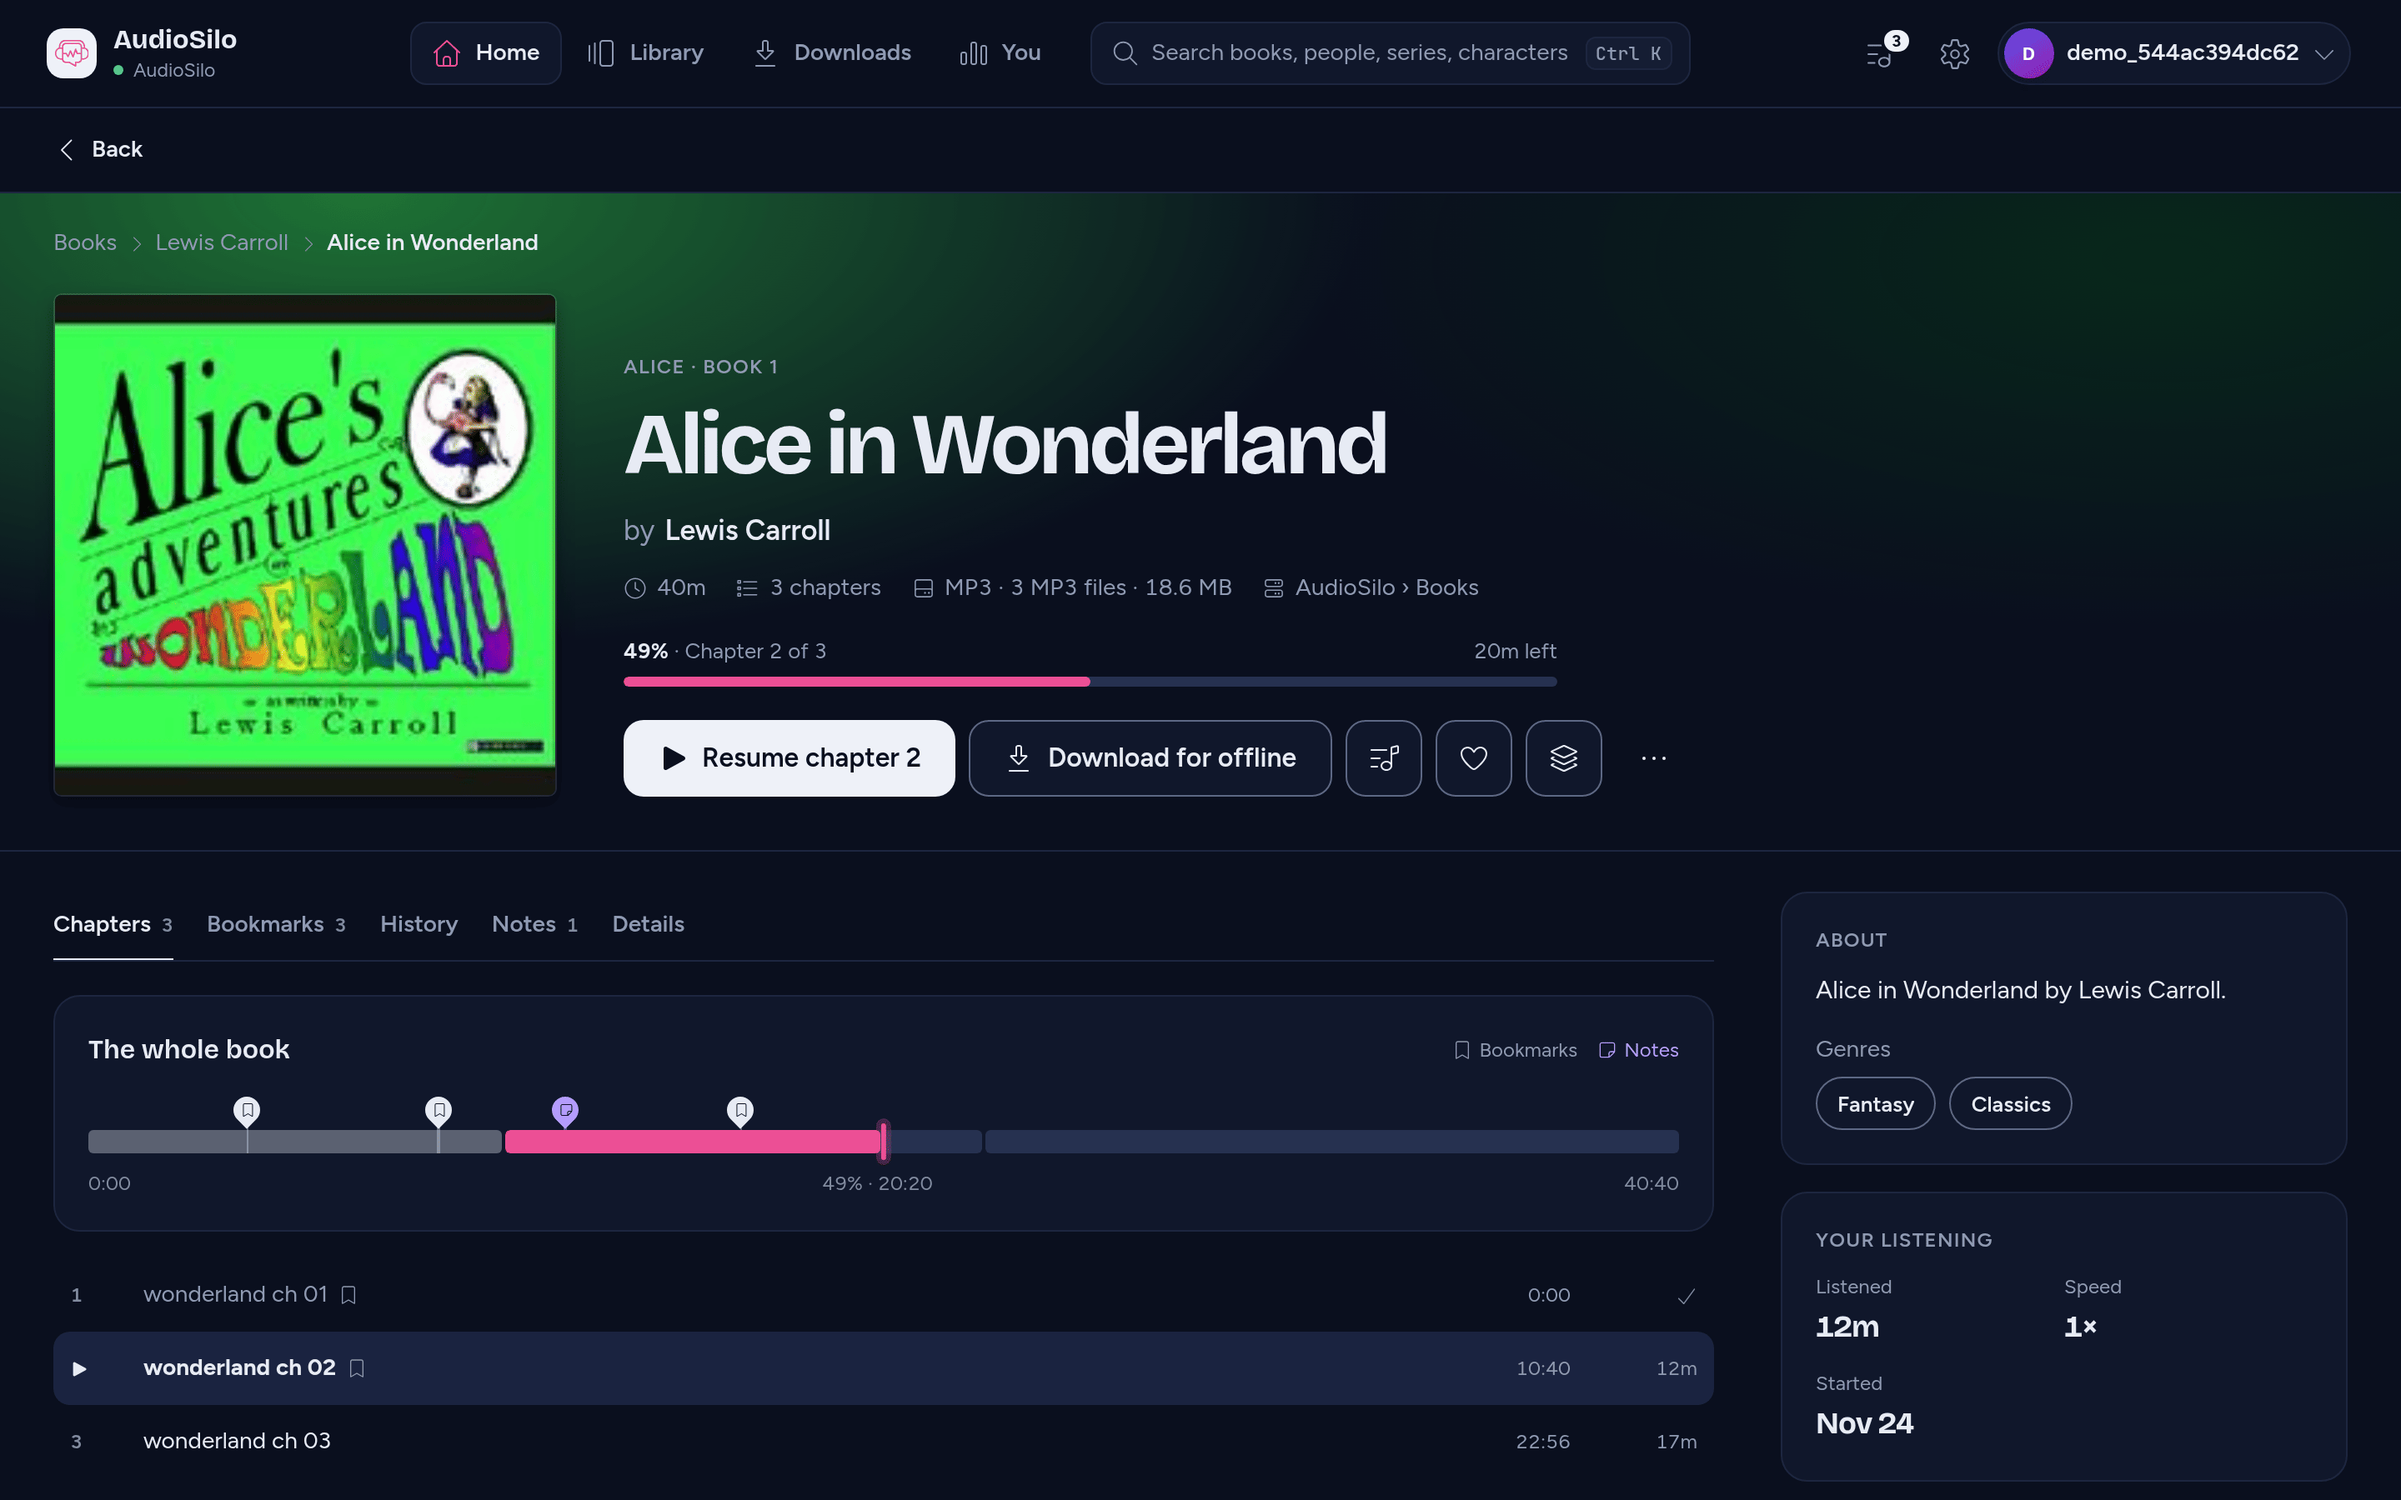
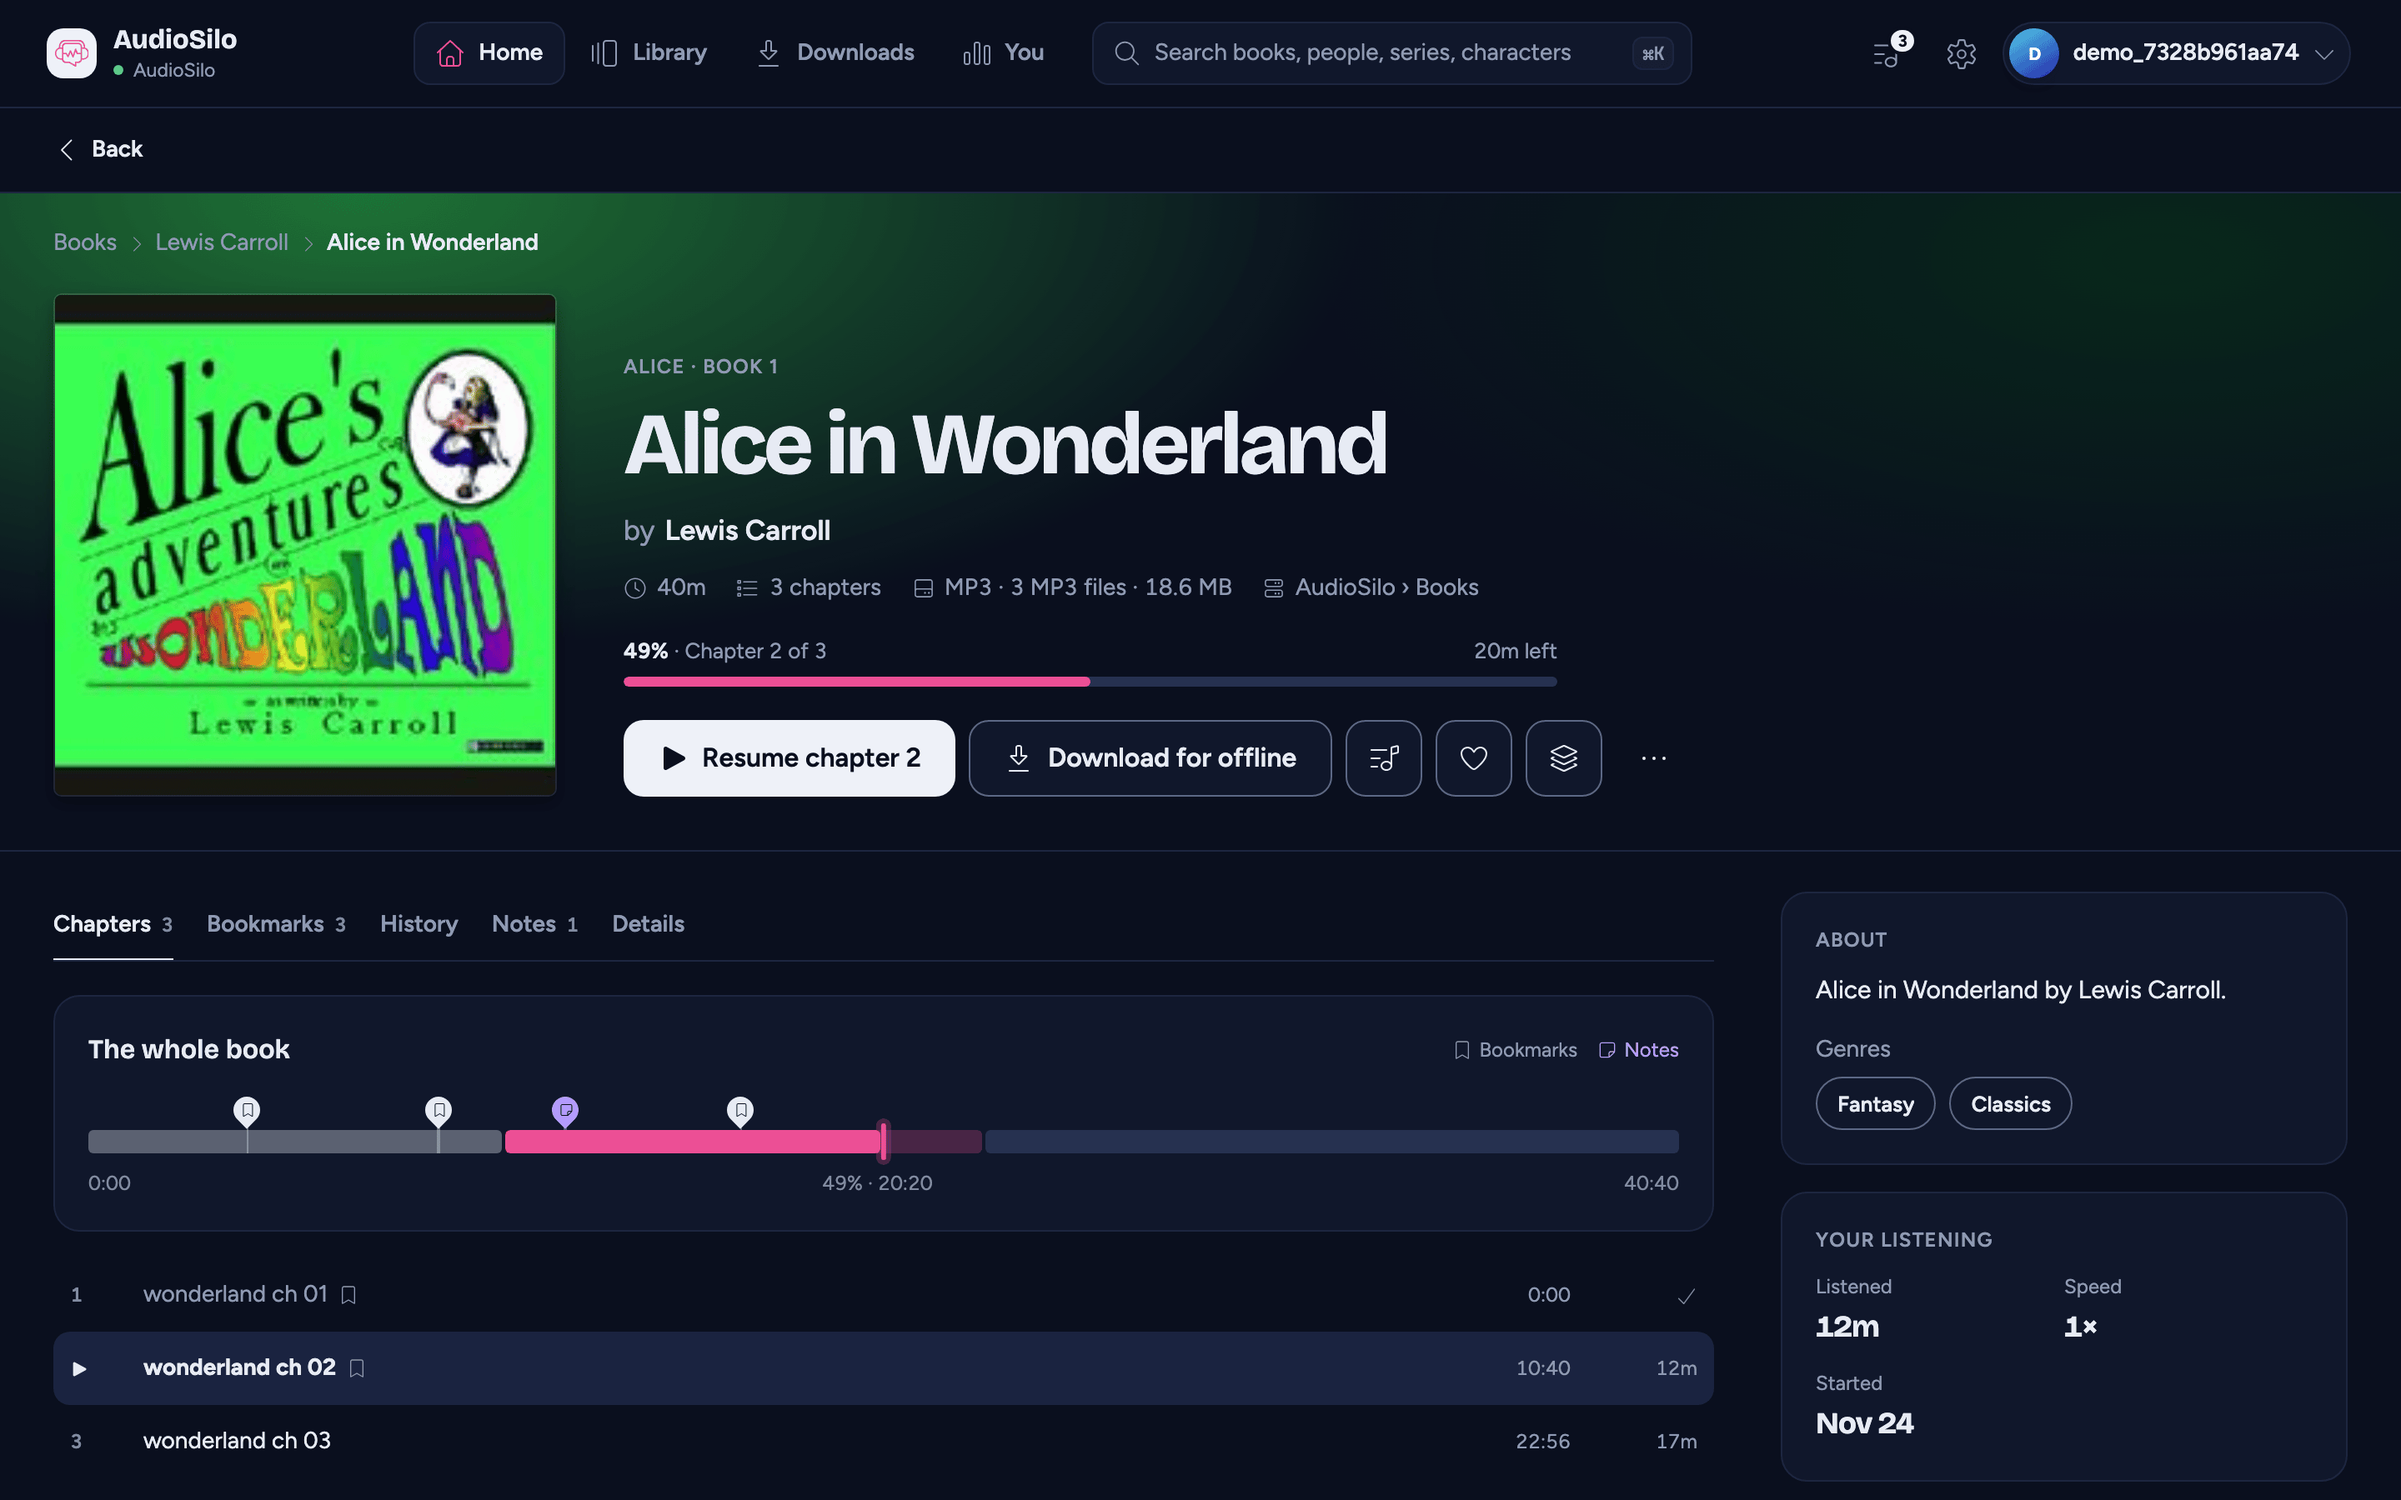
Show the current chapter's pink tint on the book timeline again
The player keeps main's bg-brand/25 tint on the timeline's current
segment, with only the chapters ahead on bg-track. The page said the
current segment was bg-track too, and the book page and player shots
showed it without the tint.

diff --git a/docs-developers/frontend/player-ui.md b/docs-developers/frontend/player-ui.md
@@ -670,9 +670,10 @@ The whole-book timeline is `book-timeline.tsx` with the pure
 
 - **Runs.** Chapters are merged into runs like the Now card's `scaleRuns`. Each run
   is placed by time with `runBox`, the one mapping that the playhead, taps and pins
-  use. Past segments use `bg-foreground/35`. Current and future segments use
-  `bg-track`, with the heard part of the current chapter in `bg-brand`. In high
-  contrast, `TrackOutline` draws under the fill on current and future segments.
+  use. Past segments use `bg-foreground/35`. The current segment is a pink tint
+  (`bg-brand/25`) with its heard part in solid `bg-brand`. Segments ahead use
+  `bg-track`. In high contrast, `TrackOutline` draws under the fill on the current
+  segment and those ahead.
 - **Chapter names.** At the playhead, `BookTimeline` uses the current chapter or
   row supplied by its caller for the hover tip and slider value text. Elsewhere it
   calls `chapterAtSecond`. The player uses `chapterAt` and keeps the playing
